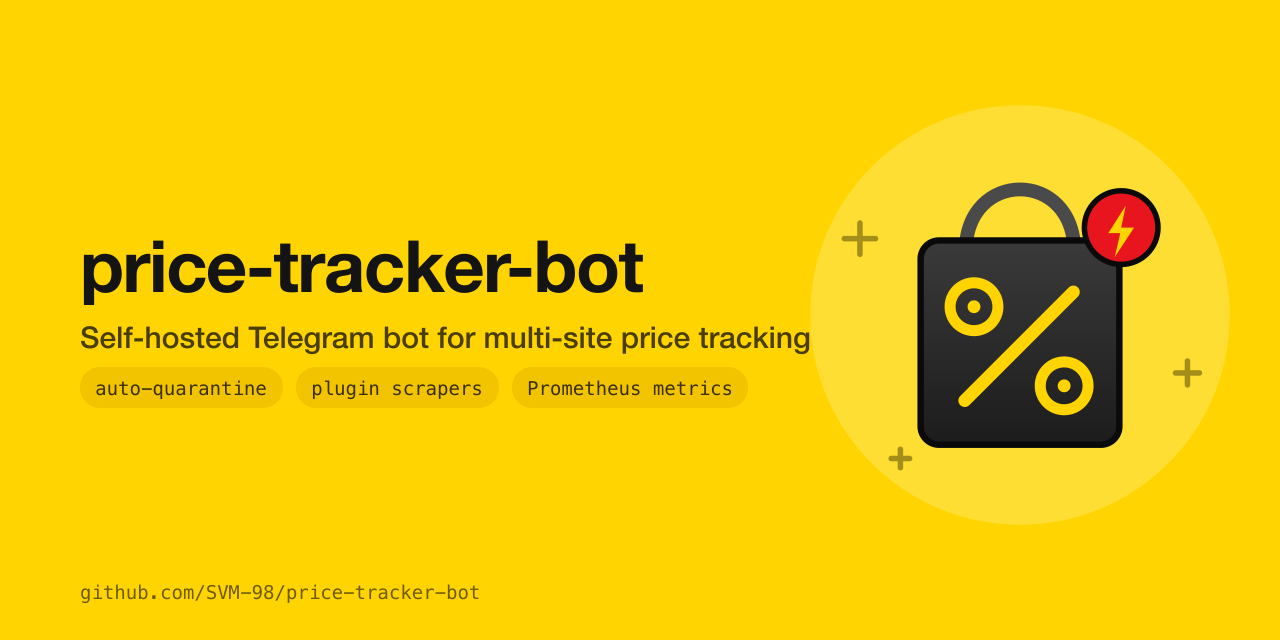
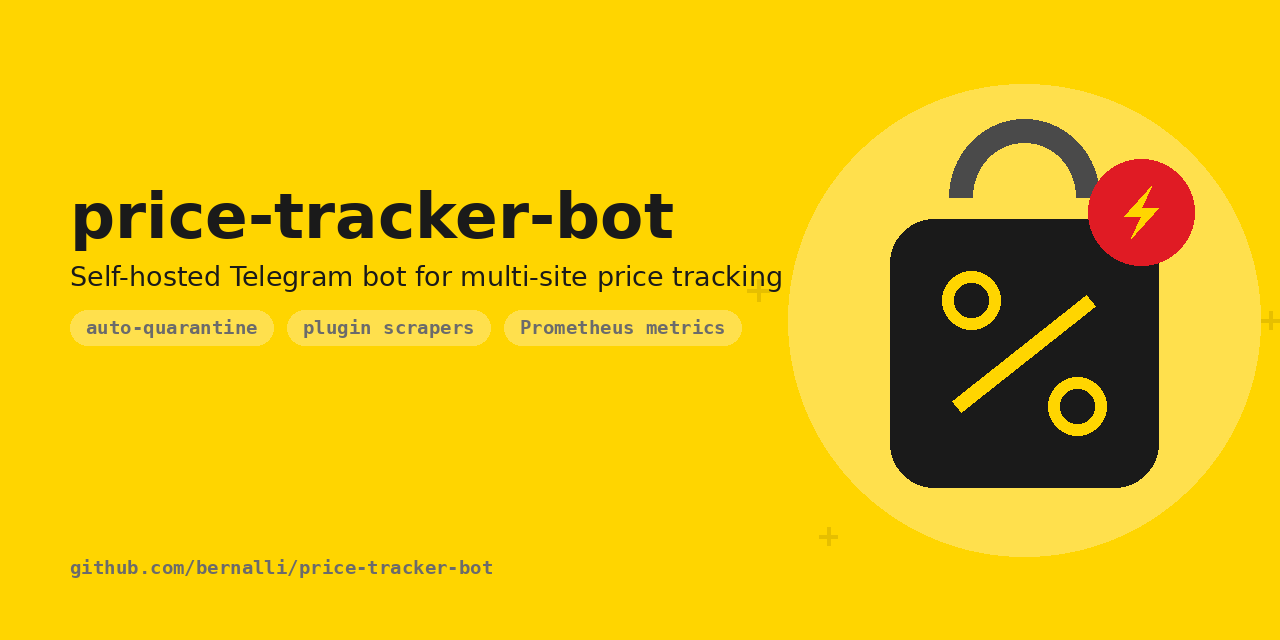
docs(art): regenerate the artwork from a script, with no real listing in it
The chart screenshot in the README was a real price history: a named product
on a named retailer, two months of real readings, and a real target line. A
public README is the wrong place for any deployment's tracked items, so the
image now comes from an invented series and an invented store, rendered
through the bot's own _render_chart so it still shows what the code draws.

The cover banner and the social card carried the pre-rename repository URL
baked into the pixels, which no text search could reach. Both are redrawn.

All three are now produced by scripts/make_docs_art.py, so the next URL or
tagline change is an edit and a re-run rather than a manual redraw.

diff --git a/scripts/make_docs_art.py b/scripts/make_docs_art.py
@@ -1,0 +1,229 @@
+#!/usr/bin/env python3
+"""Regenerate the artwork shipped in ``docs/img/``.
+
+Three images live in the README and in the repository's social preview. They are
+generated here rather than drawn by hand so that a change of repository URL, of
+tagline, or of chart style is a one-line edit followed by a re-run:
+
+    uv run python scripts/make_docs_art.py
+
+* ``price-chart.png`` — the ``/history`` output. It is rendered through the bot's
+  own ``_render_chart`` so the README always shows what the code actually draws,
+  and it is fed a **synthetic** series: the screenshot must never expose a real
+  product, a real price history, or a real target from anyone's deployment.
+* ``cover.png`` / ``social-preview.png`` — the banner and the 2:1 social card.
+
+Only Pillow and matplotlib are needed; both are already runtime dependencies.
+"""
+
+from __future__ import annotations
+
+import sys
+from datetime import UTC, datetime, timedelta
+from pathlib import Path
+
+from PIL import Image, ImageDraw, ImageFont
+
+REPO_ROOT = Path(__file__).resolve().parent.parent
+IMG_DIR = REPO_ROOT / "docs" / "img"
+
+REPO_URL = "github.com/bernalli/price-tracker-bot"
+TITLE = "price-tracker-bot"
+TAGLINE = "Self-hosted Telegram bot for multi-site price tracking"
+CHIPS = ("auto-quarantine", "plugin scrapers", "Prometheus metrics")
+
+YELLOW = "#FFD500"
+GLOW = "#FFE04D"
+INK = "#1A1A1A"
+MUTED = "#6B6B6B"
+RED = "#E01B24"
+
+# A made-up listing: generic name, invented series, invented target.
+DEMO_NAME = "Wireless Headphones XZ-900 — example-store.com"
+DEMO_TARGET = 320.0
+DEMO_SERIES = [
+    351,
+    347,
+    349,
+    353,
+    356,
+    358,
+    355,
+    352,
+    354,
+    351,
+    349,
+    350,
+    345,
+    344,
+    377,
+    370,
+    374,
+    371,
+    375,
+    378,
+    373,
+    372,
+    376,
+    381,
+    380,
+    355,
+    354,
+    353,
+    357,
+    355,
+    354,
+    357,
+    356,
+    355,
+    352,
+    347,
+    347,
+    294,
+    293,
+    295,
+    293,
+    292,
+    294,
+    292,
+    291,
+    296,
+    298,
+    295,
+    297,
+    296,
+    299,
+    301,
+]
+
+
+def _font(
+    size: int, *, bold: bool = False, mono: bool = False
+) -> ImageFont.FreeTypeFont | ImageFont.ImageFont:
+    """Best-effort font lookup, falling back to Pillow's bundled default."""
+    candidates = (
+        [
+            "/usr/share/fonts/truetype/dejavu/DejaVuSansMono-Bold.ttf",
+            "/usr/share/fonts/truetype/dejavu/DejaVuSansMono.ttf",
+        ]
+        if mono
+        else [
+            "/usr/share/fonts/truetype/dejavu/DejaVuSans-Bold.ttf"
+            if bold
+            else "/usr/share/fonts/truetype/dejavu/DejaVuSans.ttf",
+        ]
+    )
+    for path in candidates:
+        if Path(path).exists():
+            return ImageFont.truetype(path, size)
+    return ImageFont.load_default(size)
+
+
+def render_chart(out: Path) -> None:
+    """Render the demo chart through the bot's own chart function."""
+    sys.path.insert(0, str(REPO_ROOT / "src"))
+    from price_tracker.bot.handlers.history import _render_chart  # noqa: PLC0415
+
+    start = datetime(2026, 5, 8, tzinfo=UTC)
+    dates = [start + timedelta(days=i) for i in range(len(DEMO_SERIES))]
+    buf = _render_chart(dates, [float(p) for p in DEMO_SERIES], DEMO_TARGET, DEMO_NAME)
+    out.write_bytes(buf.getvalue())
+
+
+def _bag(draw: ImageDraw.ImageDraw, cx: int, cy: int, size: int) -> None:
+    """Draw the shopping-bag mark with its discount slash and lightning badge."""
+    half = size // 2
+    body = (cx - half, cy - half + size // 8, cx + half, cy + half + size // 8)
+    draw.rounded_rectangle(body, radius=size // 6, fill=INK)
+
+    handle_w = int(size * 0.56)
+    lw = max(4, size // 11)
+    draw.arc(
+        (cx - handle_w // 2, cy - half - size // 4, cx + handle_w // 2, cy - half + size // 3),
+        start=180,
+        end=360,
+        fill="#4A4A4A",
+        width=lw,
+    )
+
+    r = size // 9
+    off = size // 5
+    for dx, dy in ((-off, -off), (off, off)):
+        draw.ellipse(
+            (cx + dx - r, cy + dy - r + size // 8, cx + dx + r, cy + dy + r + size // 8),
+            outline=YELLOW,
+            width=max(3, size // 22),
+        )
+    draw.line(
+        (cx - off - r // 2, cy + off + size // 8, cx + off + r // 2, cy - off + size // 8),
+        fill=YELLOW,
+        width=max(4, size // 16),
+    )
+
+    br = size // 5
+    bx, by = cx + half - br // 3, cy - half + size // 10
+    draw.ellipse((bx - br, by - br, bx + br, by + br), fill=RED)
+    bolt = [
+        (bx + br // 5, by - br // 2),
+        (bx - br // 3, by + br // 12),
+        (bx, by + br // 12),
+        (bx - br // 5, by + br // 2),
+        (bx + br // 3, by - br // 12),
+        (bx, by - br // 12),
+    ]
+    draw.polygon(bolt, fill=YELLOW)
+
+
+def render_banner(out: Path, width: int, height: int, *, scale: float) -> None:
+    """Draw a cover/social card at the given size."""
+    img = Image.new("RGB", (width, height), YELLOW)
+    draw = ImageDraw.Draw(img)
+
+    mark_cx = int(width * 0.80)
+    mark_cy = height // 2
+    glow_r = int(min(width, height) * 0.37)
+    draw.ellipse(
+        (mark_cx - glow_r, mark_cy - glow_r, mark_cx + glow_r, mark_cy + glow_r), fill=GLOW
+    )
+    for dx, dy, s in ((-glow_r - 30, -30, 11), (glow_r + 10, 0, 9), (-glow_r + 40, glow_r - 20, 9)):
+        px, py = mark_cx + dx, mark_cy + dy
+        draw.line((px - s, py, px + s, py), fill="#E6BF00", width=4)
+        draw.line((px, py - s, px, py + s), fill="#E6BF00", width=4)
+    _bag(draw, mark_cx, mark_cy, int(min(width, height) * 0.42))
+
+    x = int(width * 0.055)
+    title_f = _font(int(60 * scale), bold=True)
+    tag_f = _font(int(26 * scale))
+    chip_f = _font(int(19 * scale), mono=True)
+    url_f = _font(int(19 * scale), mono=True)
+
+    y = int(height * 0.28)
+    draw.text((x, y), TITLE, font=title_f, fill=INK)
+    y += int(78 * scale)
+    draw.text((x, y), TAGLINE, font=tag_f, fill=INK)
+
+    y += int(48 * scale)
+    cx = x
+    for chip in CHIPS:
+        w = int(draw.textlength(chip, font=chip_f))
+        pad = int(16 * scale)
+        h = int(34 * scale)
+        draw.rounded_rectangle((cx, y, cx + w + 2 * pad, y + h), radius=h // 2, fill=GLOW)
+        draw.text((cx + pad, y + h // 2), chip, font=chip_f, fill=MUTED, anchor="lm")
+        cx += w + 2 * pad + int(14 * scale)
+
+    draw.text((x, int(height * 0.87)), REPO_URL, font=url_f, fill=MUTED)
+    img.save(out, "PNG", optimize=True)
+
+
+def main() -> None:
+    IMG_DIR.mkdir(parents=True, exist_ok=True)
+    render_chart(IMG_DIR / "price-chart.png")
+    render_banner(IMG_DIR / "cover.png", 1600, 400, scale=1.0)
+    render_banner(IMG_DIR / "social-preview.png", 1280, 640, scale=1.05)
+    for name in ("price-chart.png", "cover.png", "social-preview.png"):
+        print(f"wrote {IMG_DIR / name}")
+
+
+if __name__ == "__main__":
+    main()
